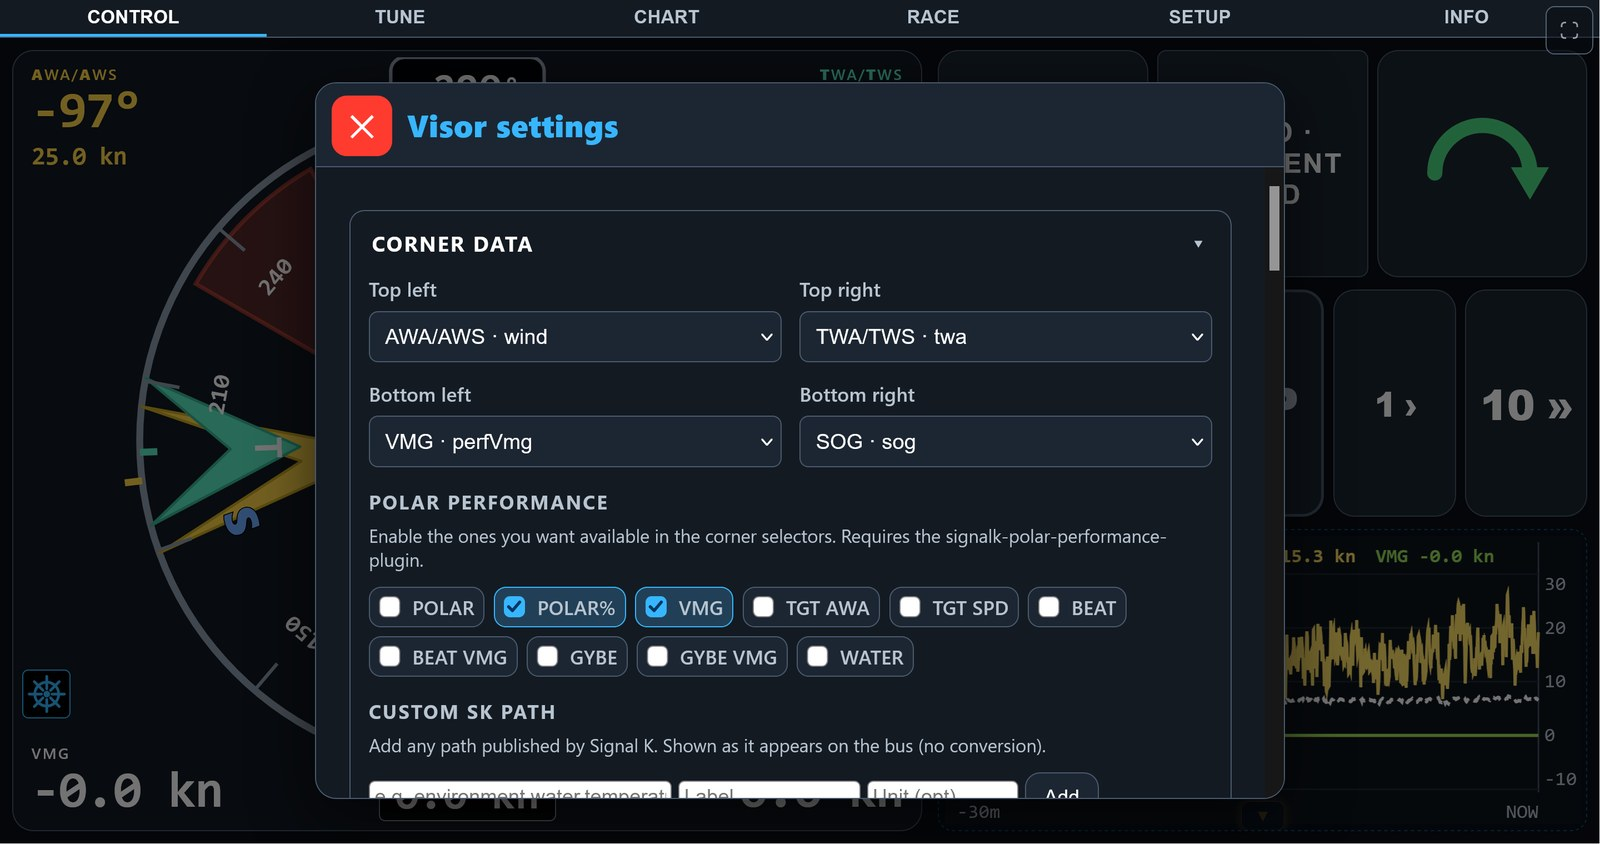
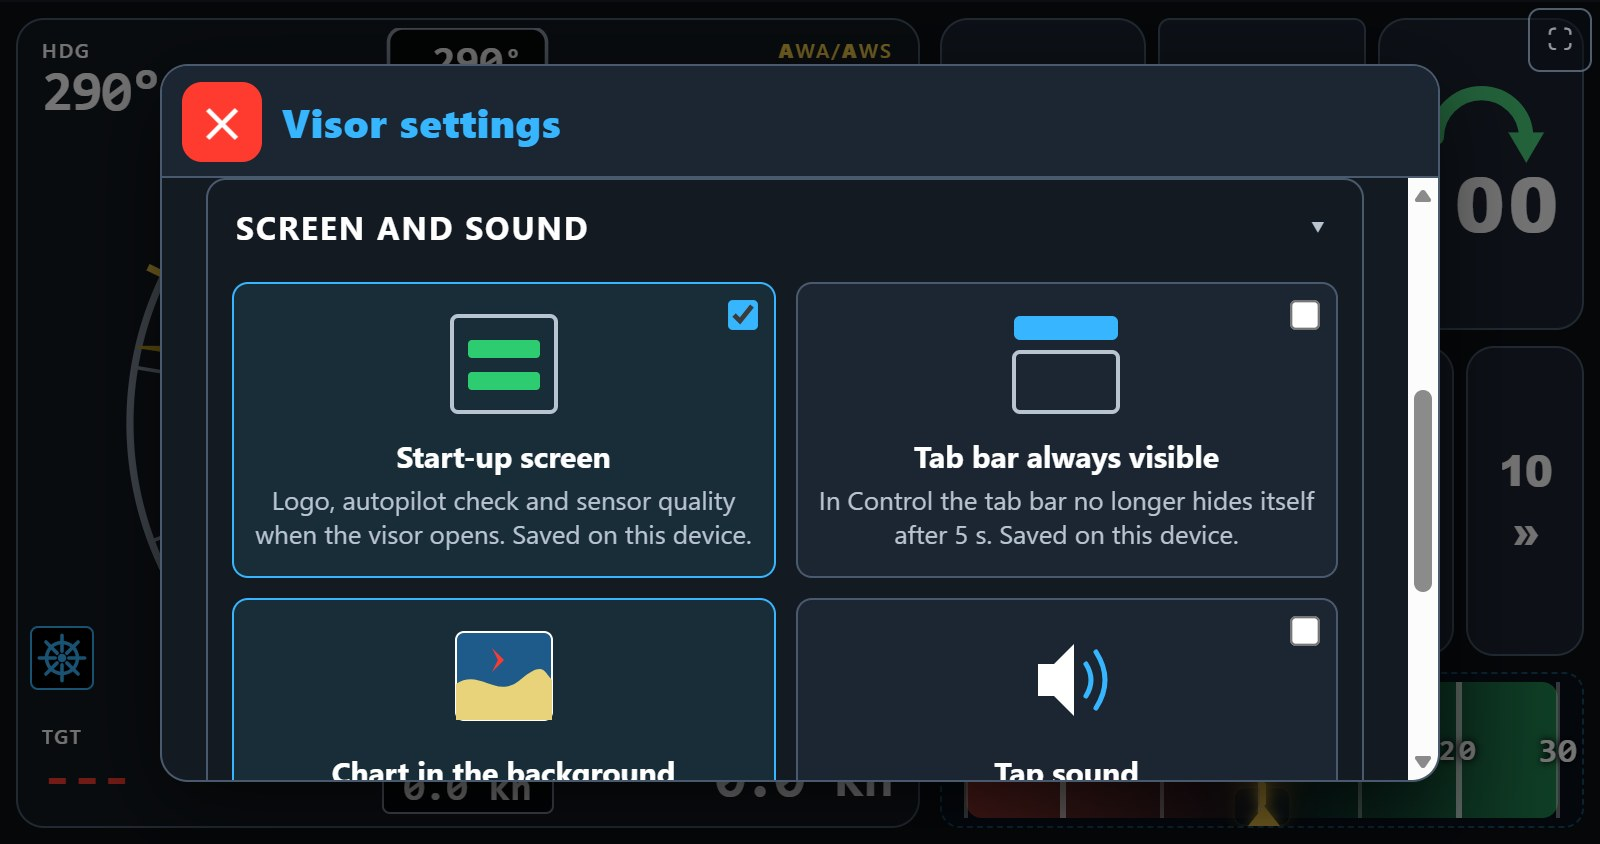
3.15.4 (Rev705): visor settings reorganised and instructions updated, 'too many connections' notice, heading fallback clears what it stops publishing, README title, new visor settings screenshot

diff --git a/public/app.js b/public/app.js
@@ -765,6 +765,7 @@
       "net.silent":     "no data",
       "net.wsDown":     "WebSocket down",
       "net.pingFail":   "Ping failing",
+      "net.wsRefused": "Signal K refuses the live connection from this device: too many Signal K tabs or apps open on it? Close some - it reconnects by itself.",
       "tack.cancel":    "Cancel",
       "tune.gain.P.short":  "Corrects a heading error instantly with rudder. The 'act now' reflex.",
       "tune.gain.P.long":   "Raise if the AP takes too long to close a heading error. Lower if the rudder dances at every wave.",
@@ -2140,6 +2141,7 @@
       "net.silent":     "sin datos",
       "net.wsDown":     "WebSocket caído",
       "net.pingFail":   "Ping falla",
+      "net.wsRefused": "Signal K rechaza la conexión en vivo de este dispositivo: ¿demasiadas pestañas o apps de Signal K abiertas en él? Cierra alguna: se reconecta solo.",
       "tack.cancel":    "Cancelar",
       "tune.gain.P.short":  "Corrige el error de rumbo al instante con más rueda. Es el reflejo 'hay que corregir ya'.",
       "tune.gain.P.long":   "Subir si el AP tarda en cerrar un desvío. Bajar si el timón 'baila' a cada ola.",
@@ -3562,6 +3564,7 @@
       "net.silent": "keine Daten",
       "net.wsDown": "WebSocket getrennt",
       "net.pingFail": "Ping schlägt fehl",
+      "net.wsRefused": "Signal K lehnt die Live-Verbindung dieses Geräts ab: zu viele Signal-K-Tabs oder -Apps darauf offen? Einige schließen - es verbindet sich von selbst neu.",
       "tack.cancel": "Abbrechen",
       "tune.gain.ap.tack.delay.short": "Countdown (Sekunden) zwischen Druck auf WENDE und dem Beginn der Drehung.",
       "tune.gain.ap.tack.delay.long": "Erhöhen, um die Crew früher zu warnen. Auf null für sofortige Ausführung.",
@@ -4907,6 +4910,7 @@
       "net.silent": "pas de données",
       "net.wsDown": "WebSocket coupé",
       "net.pingFail": "Ping en échec",
+      "net.wsRefused": "Signal K refuse la connexion en direct de cet appareil : trop d'onglets ou d'applis Signal K ouverts dessus ? Fermez-en quelques-uns, il se reconnecte tout seul.",
       "tack.cancel": "Annuler",
       "tune.gain.ap.tack.delay.short": "Compte à rebours (secondes) entre l'appui sur VIRER et le début réel de la rotation.",
       "tune.gain.ap.tack.delay.long": "Augmentez pour prévenir l'équipage plus tôt. Mettez à zéro pour une exécution immédiate dès l'appui.",
@@ -5701,6 +5705,13 @@
     }
   }
   let _netDismissed = null;   // Rev644: which banner the sailor tapped away
+  // Rev703 (Carlos, 2026-11-11): Signal K turns new WebSockets away with
+  // HTTP 429 once one client address holds too many (30 by default, per
+  // IP - every tab and app of the device counts). The browser only sees
+  // a socket that never opens, and the banner said "intermittent network"
+  // while HTTP worked. Three refused opens in a row with the HTTP ping
+  // answering: say what it most likely is.
+  let _wsOpenFails = 0;
   function _netHealthTick() {
     const banner = document.getElementById("net-health-banner");
     if (!banner) return;
@@ -5731,7 +5742,8 @@
       const reason = wsBad ? (t("net.wsDown") || "WebSocket caído")
                     : gapMs > 3000 ? `${t("net.silent") || "Sin datos"} ${gapSec}s`
                     : (t("net.pingFail") || "Ping falla");
-      banner.textContent = `🌐 ${t("net.warn") || "Red intermitente"} — ${reason}`;
+      const refused = wsBad && _wsOpenFails >= 3 && !pingRecentErr && _lastPingRttMs != null;
+      banner.textContent = refused ? `🌐 ${t("net.wsRefused")}` : `🌐 ${t("net.warn") || "Red intermitente"} — ${reason}`;
       banner.style.background = "rgba(255,149,0,0.92)";
       banner.style.color = "#0a1220";
       banner.hidden = false;
@@ -5913,7 +5925,10 @@
     const sock = new WebSocket(url);
     ws = sock;
     _wsStartTs = Date.now();
+    let opened = false;
     ws.addEventListener("open", () => {
+      opened = true;
+      _wsOpenFails = 0;   // Rev703
       subscribeAll();
     });
     ws.addEventListener("message", (evt) => {
@@ -5933,6 +5948,7 @@
       // then marked pypilot offline and opened a second stream. Only the
       // current socket's close counts.
       if (sock !== ws) return;
+      if (!opened) _wsOpenFails += 1;   // Rev703: refused before it opened
       // Rev466 (Carlos safety 2026-10-12 trip): mark pypilot offline
       // immediately when the WS drops, without waiting for the next
       // /status poll (which may be seconds away). This activates the

diff --git a/src/index.ts b/src/index.ts
@@ -92,7 +92,7 @@ import {
 
 // Rev counter bumped on every build so the user can distinguish deploys
 // from the webapp header (feedback_revision_bump_each_build).
-const PLUGIN_REVISION = "Rev702";
+const PLUGIN_REVISION = "Rev705";
 
 // Rev59: read package.json once at load time so /status can report the
 // npm package version alongside the internal Rev counter.
@@ -943,7 +943,21 @@ module.exports = function (app: any) {
             if (!step) continue;
             changed = true;
             if (step === "on") { imuFallbackOn.add(p); _imuFallbackLog(`on ${p} - pypilot has it but nobody writes it to Signal K (pypilot without read/write access?); publishing it from the plugin`); }
-            else { imuFallbackOn.delete(p); _imuFallbackLog(`off ${p} - ${!enabled ? "switched off in Setup" : other ? "another source writes it" : has ? "the heading is back from pypilot" : "pypilot has no heading"}`); }
+            else {
+              imuFallbackOn.delete(p);
+              _imuFallbackLog(`off ${p} - ${!enabled ? "switched off in Setup" : other ? "another source writes it" : has ? "the heading is back from pypilot" : "pypilot has no heading"}`);
+              // Rev703: Signal K keeps the last value; with nobody else on
+              // this path ours would stay frozen (rate of turn, which pypilot
+              // never sends). Clear it, as pypilot does for missing data.
+              if (!other) {
+                try {
+                  app.handleMessage(PLUGIN_ID, {
+                    context: "vessels." + app.selfId,
+                    updates: [{ $source: SOURCE_LABEL, timestamp: new Date().toISOString(), values: [{ path: p, value: null }] }],
+                  });
+                } catch { /* silent */ }
+              }
+            }
           }
           if (changed) {
             imuFallbackActive = imuFallbackOn.size > 0;

diff --git a/public/index.html b/public/index.html
@@ -27,7 +27,7 @@
        style.css never shows the rose unstyled on a white page. The rose
        is hidden until style.css (loaded below) makes it visible again. -->
   <style>html,body{background:#0a1220;color:#e6edf3}#wind-rose{visibility:hidden}</style>
-  <link rel="stylesheet" href="style.css?v=Rev702" />
+  <link rel="stylesheet" href="style.css?v=Rev705" />
 </head>
 <body class="theme-dark">
   <!-- Rev490 (GPU audit 2026-10-15): flag the Raspberry Pi's own screen
@@ -76,7 +76,7 @@
        SK WebSocket goes silent > 3 s or the /status ping RTT crosses
        1 s. Visual cue so the sailor can tell "red intermitente" from
        "bug del pilot" in agua. -->
-  <div id="net-health-banner" hidden style="position:fixed;top:0;left:0;right:0;padding:8px 14px;text-align:center;font-size:13px;font-weight:600;letter-spacing:0.3px;z-index:9998;background:rgba(255,149,0,0.92);color:#0a1220;box-shadow:0 2px 8px rgba(0,0,0,0.35)"></div>
+  <div id="net-health-banner" hidden style="position:fixed;top:0;left:0;right:0;padding:8px 44px;white-space:normal;line-height:1.3;text-align:center;font-size:13px;font-weight:600;letter-spacing:0.3px;z-index:9998;background:rgba(255,149,0,0.92);color:#0a1220;box-shadow:0 2px 8px rgba(0,0,0,0.35)"></div>
   <!-- Rev465 (Carlos safety audit 2026-10-12): bloqueante centrado que
        aparece cuando el plugin backend reporta pypilot core offline.
        Deshabilita visualmente los controles write-side (via CSS) +
@@ -2948,6 +2948,6 @@
     </div>
   </div>
 
-  <script src="app.js?v=Rev702"></script>
+  <script src="app.js?v=Rev705"></script>
 </body>
 </html>

diff --git a/docs/_autoauditoria_pre_3.15.4_2026-11-11.md b/docs/_autoauditoria_pre_3.15.4_2026-11-11.md
@@ -1,0 +1,53 @@
+# Autoauditoría antes de 3.15.4 (Rev701-705) — 2026-11-11
+
+Cambios desde v3.15.3:
+- Configuración del visor: nombres de apartado y orden de tarjetas
+  (Rev701).
+- Instrucciones de la pestaña Info, título del README sin «for Signal K» y
+  subtítulo de la barra del panel multifunción (Rev702).
+- Respaldo de rumbo: al retirarse de un dato que nadie más publica, lo deja
+  a `null` (Rev703).
+- Aviso de conexiones rechazadas por Signal K (429) y banner que hace salto
+  de línea (Rev703-704).
+- Captura 13 del README nueva.
+
+## Lista (feedback_self_audit_before_publish)
+
+1. **Qué cambia durante cada await o temporizador.**
+   - `_wsOpenFails` lo cambian solo el `open` y el `close` del socket
+     actual (se mantiene el filtro `sock !== ws`).
+   - Un socket aparcado a propósito (pestaña oculta) sale antes de contar.
+2. **Retorno de cada escritura.** El `null` del respaldo va en try/catch,
+   como el resto de publicaciones.
+3. **Dato que falta.**
+   - Sin un ping HTTP que haya respondido al menos una vez
+     (`_lastPingRttMs` nulo), no se muestra el aviso del 429: sigue el de
+     red intermitente.
+   - El `null` se manda solo si ninguna otra fuente publica ese dato.
+4. **Reinicio.** Nada se guarda. El contador vuelve a 0 al recargar o al
+   abrir un socket.
+5. **Dos fuentes a la vez.** Con otra fuente activa no se manda `null`, así
+   que no se le pisa el valor.
+6. **Permiso.** Sin cambios.
+7. **Bucles.** Ninguno. El banner solo cambia de texto en el tick que ya
+   existía.
+8. **Tests.**
+   - Suite completa: 569/569.
+   - Comprobado de verdad:
+     - el corte de pypilot hacia Signal K en el barco (iptables, piloto
+       desconectado), dos veces;
+     - el banner del 429 en el navegador de pruebas, con el stream
+       redirigido a un puerto cerrado: aparece a los 10 s y desaparece al
+       volver la conexión.
+
+## Comprobado en el barco
+
+- Prueba 1 (Rev699):
+  - encendido a los 30 s;
+  - check en «listo con avisos», con `viaFallback`;
+  - pypilot reconecta a los 85 s;
+  - el respaldo se apaga 3 s después.
+- Prueba 2 (Rev704): igual que la primera, y la velocidad de giro queda en
+  `null` al retirarse.
+- Configuración del visor: los seis apartados, en inglés y en español.
+- Instrucciones nuevas servidas por la Pi.

diff --git a/CHANGELOG.md b/CHANGELOG.md
@@ -1,8 +1,8 @@
 # Changelog
 
-## Unreleased
+## 3.15.4 — 2026-11-11 — Visor settings reorganised, "too many connections" notice
 
-Rev701-702 on top of 3.15.3.
+Rev701-705 on top of 3.15.3.
 
 ### Changed
 - Visor settings: clearer section names - Rose corners, Arrows on the rose,
@@ -17,6 +17,24 @@ Rev701-702 on top of 3.15.3.
   boat: boat menu). They still described the old 4-card selector.
 - README title is "PyPilot New-UI" (no more "for Signal K"), and the rose
   feature lists the visor settings sections.
+- README screenshot of the visor settings shows the new sections.
+
+### Added
+- **"Too many connections" notice**: Signal K turns new WebSockets away
+  (HTTP 429) once one device holds too many (30 by default - every tab and
+  app on that device counts). The browser only sees a socket that never
+  opens, and the banner said "intermittent network" while everything else
+  worked. After three refused opens in a row with the HTTP ping answering,
+  the banner says Signal K is refusing the live connection and suggests
+  closing tabs or apps on that device. The banner now wraps instead of
+  cutting long text.
+
+### Fixed
+- Heading fallback: when it steps back on a path nobody else publishes
+  (rate of turn), it clears the value instead of leaving its last one
+  frozen in Signal K. Tested on board by cutting pypilot off Signal K: on
+  after 30 s, caveat in the check, off 3 s after pypilot reconnected, rate
+  of turn null.
 
 ## 3.15.3 — 2026-11-11 — Heading fallback, more cases (#6)
 

diff --git a/README.md b/README.md
@@ -53,7 +53,7 @@ Questions, ideas and sailing reports: **[PyPilot New-UI thread on the OpenMarine
 
 | | |
 |---|---|
-| ![Profile manager - history of each profile and look-alike names flagged](https://raw.githubusercontent.com/Aitonos/signalk-pypilot-newui/main/public/screenshots/12-profile-manager.jpg) | ![Visor settings - rose corners, polar performance and custom Signal K paths](https://raw.githubusercontent.com/Aitonos/signalk-pypilot-newui/main/public/screenshots/13-visor-settings.jpg) |
+| ![Profile manager - history of each profile and look-alike names flagged](https://raw.githubusercontent.com/Aitonos/signalk-pypilot-newui/main/public/screenshots/12-profile-manager.jpg) | ![Visor settings in six sections - here Screen and sound: start-up screen, tab bar, chart in the background, tap sound](https://raw.githubusercontent.com/Aitonos/signalk-pypilot-newui/main/public/screenshots/13-visor-settings.jpg) |
 
 ---
 
